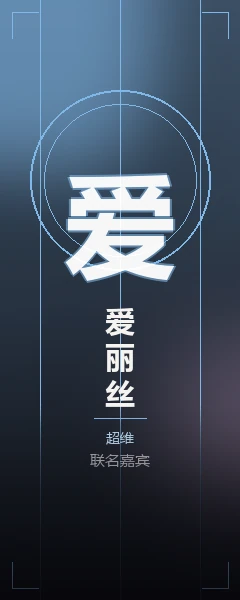
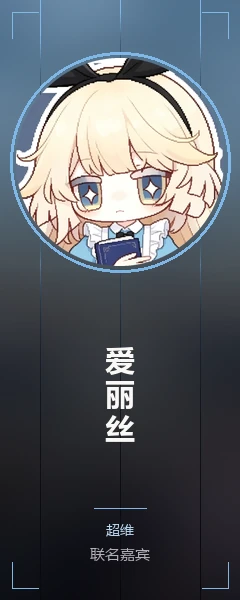
feat(idle): 联名嘉宾改用主播本人的 B 站头像
- 抓取 9 位主播的 B 站头像存进 idle/tools/faces/，来源（UID/昵称/CDN 地址/抓取时间）记在 source.json
- build_creators.py 增加 --face-dir：头像 120×120 直出；立绘 240×600 做成名片（模糊头像铺底 + 圆形头像带界域色环 + 竖排名字 + 界域/联名嘉宾）
- 无 --face-dir 时仍退化成原来的姓名符印占位卡，--portrait/--card 可单张替换
- 立绘竖排名字去掉下划线（魔龙_D → 魔龙D）
- README / DESIGN 同步素材说明与下架渠道

diff --git a/idle/tools/build_creators.py b/idle/tools/build_creators.py
@@ -1,8 +1,11 @@
 # 彩蛋角色（联名主播）的头像与立绘。
 #
-# 游戏里没有现成的真人素材，也不能随便抓别人的头像，所以默认用「姓名符印」画一张风格统一的卡图：
-# 界域色光晕 + 一枚篆刻感的首字 + 底部身份条。有授权素材时直接传源图覆盖：
+# 三种来源，优先级从高到低：
+#   1. --face-dir DIR    用主播本人的 B 站头像（DIR 下放 <slug>.jpg/png/webp）→ 头像直出、立绘做「嘉宾名片」
+#   2. --portrait / --card  指定单张授权图
+#   3. 都没有 → 画一张「姓名符印」占位卡（界域色光晕 + 首字篆刻 + 底部身份条）
 #
+#   python tools/build_creators.py --face-dir=.faces
 #   python tools/build_creators.py --portrait samo=D:/pic/samo.png --card samo=D:/pic/samo-card.png
 #   python tools/build_creators.py --only samo          # 只重做一个人
 #
@@ -16,7 +19,7 @@ import sys
 import math
 
 try:
-    from PIL import Image, ImageDraw, ImageFont, ImageFilter
+    from PIL import Image, ImageDraw, ImageFont, ImageFilter, ImageEnhance
 except ImportError:
     sys.exit('需要 Pillow：pip install pillow')
 
@@ -96,6 +99,101 @@ def corner_marks(d, size, color, inset=8, length=18):
     for (x, y, sx, sy) in ((inset, inset, 1, 1), (w - inset, inset, -1, 1), (inset, h - inset, 1, -1), (w - inset, h - inset, -1, -1)):
         d.line([(x, y), (x + length * sx, y)], fill=color + (110,), width=1)
         d.line([(x, y), (x, y + length * sy)], fill=color + (110,), width=1)
+
+
+def cover(im, size):
+    """等比放大到铺满 size，居中裁掉多余部分"""
+    W, H = size
+    sc = max(W / im.width, H / im.height)
+    im = im.resize((max(1, round(im.width * sc)), max(1, round(im.height * sc))), Image.LANCZOS)
+    return im.crop(((im.width - W) // 2, (im.height - H) // 2, (im.width - W) // 2 + W, (im.height - H) // 2 + H))
+
+
+def open_face(path):
+    """主播头像：居中裁成正方形（B 站头像本身就是方的，这里只兜底）"""
+    im = Image.open(path).convert('RGB')
+    s = min(im.size)
+    x, y = (im.width - s) // 2, (im.height - s) // 2
+    return im.crop((x, y, x + s, y + s))
+
+
+def circle_mask(D, ss=4):
+    m = Image.new('L', (D * ss, D * ss), 0)
+    ImageDraw.Draw(m).ellipse((0, 0, D * ss - 1, D * ss - 1), fill=255)
+    return m.resize((D, D), Image.LANCZOS)
+
+
+def save_webp(im, folder, slug, quality):
+    os.makedirs(folder, exist_ok=True)
+    p = os.path.join(folder, f'{slug}.webp')
+    im.convert('RGB').save(p, 'WEBP', quality=quality, method=6)
+    return p
+
+
+def make_face_portrait(slug, face):
+    """真实头像 → 120×120，直接给列表 / 战斗用（CSS 那边自己裁圆角）"""
+    out = open_face(face).resize((120, 120), Image.LANCZOS)
+    return save_webp(out, AWK_DIR, slug, 92)
+
+
+def make_face_card(slug, name, color, color2, realm, face):
+    """真实头像 + 名片式立绘：模糊铺底 → 圆形头像 → 竖排名字 → 界域 / 联名"""
+    W, H = 240, 600
+    ss = open_face(face)
+
+    # 背景：头像铺满后模糊，压暗并染上界域色，避免和清晰头像抢注意力
+    bg = cover(ss, (W, H)).filter(ImageFilter.GaussianBlur(24))
+    bg = ImageEnhance.Brightness(bg).enhance(0.55)
+    tint = vertical_gradient((W, H), lerp(color, (10, 10, 14), 0.55), (9, 9, 13), gamma=1.1)
+    im = Image.blend(bg, tint, 0.60).convert('RGBA')
+
+    im.alpha_composite(glow((W, H), lambda d: d.ellipse((-40, -80, 280, 280), fill=color + (120,)), color, 54, 0.9))
+    im.alpha_composite(glow((W, H), lambda d: d.ellipse((110, 420, 300, 620), fill=color2 + (70,)), color2, 60))
+    d = ImageDraw.Draw(im)
+    for i in range(3):
+        x = 40 + i * 80
+        d.line([(x, 0), (x, H)], fill=color + (14,), width=1)
+
+    # 清晰头像
+    D = 208
+    ax, ay = (W - D) // 2, 58
+    ring = (ax - 6, ay - 6, ax + D + 6, ay + D + 6)
+    im.alpha_composite(glow((W, H), lambda dd: dd.ellipse(ring, outline=color + (190,), width=4), color, 16, 1.0))
+    d = ImageDraw.Draw(im)
+    d.ellipse(ring, outline=color + (225,), width=3)
+    im.paste(ss.resize((D, D), Image.LANCZOS), (ax, ay), circle_mask(D))
+
+    # 下半部压暗：先铺暗底，再写亮字，名字才不会被背景吃掉
+    shade = Image.new('RGBA', (W, H), (0, 0, 0, 0))
+    sd = ImageDraw.Draw(shade)
+    y0 = 264
+    for i in range(H - y0):
+        a = int(196 * (i / (H - y0)) ** 0.85)
+        sd.line([(0, y0 + i), (W, y0 + i)], fill=(6, 6, 10, a))
+    im.alpha_composite(shade)
+
+    d = ImageDraw.Draw(im)
+    size = 30 if len(name) <= 5 else 27
+    step = size + 4
+    f = font(FONT_BOLD, size)
+    chars = name.replace('_', '')
+    total = len(chars) * step
+    dy = 292 + max(0, (196 - total) / 2)
+    for c in chars:
+        w = d.textlength(c, font=f)
+        d.text(((W - w) / 2, dy), c, font=f, fill=(250, 248, 246, 245))
+        dy += step
+
+    d.line([(W / 2 - 26, 508), (W / 2 + 26, 508)], fill=color + (180,), width=1)
+    frealm = font(FONT_REG, 14)
+    fsmall = font(FONT_REG, 15)
+    tw = d.textlength(realm, font=frealm)
+    d.text(((W - tw) / 2, 520), realm, font=frealm, fill=lerp(color, (255, 255, 255), 0.45) + (225,))
+    t2 = '联名嘉宾'
+    t2w = d.textlength(t2, font=fsmall)
+    d.text(((W - t2w) / 2, 544), t2, font=fsmall, fill=(178, 176, 182, 220))
+    corner_marks(d, (W, H), color, inset=12, length=26)
+    return save_webp(im, CARD_DIR, slug, 90)
 
 
 def make_portrait(slug, name, ch, color, color2, src=None):
@@ -180,13 +278,26 @@ def make_card(slug, name, ch, color, color2, realm, src=None):
     return p
 
 
+def find_face(folder, slug):
+    if not folder:
+        return None
+    for ext in ('.jpg', '.jpeg', '.png', '.webp'):
+        p = os.path.join(folder, slug + ext)
+        if os.path.isfile(p):
+            return p
+    return None
+
+
 def main(argv):
     only = None
+    face_dir = None
     portrait_src = {}
     card_src = {}
     for arg in argv:
         if arg.startswith('--only='):
             only = arg.split('=', 1)[1]
+        elif arg.startswith('--face-dir='):
+            face_dir = arg.split('=', 1)[1]
         elif arg.startswith('--portrait='):
             k, v = arg[len('--portrait='):].split('=', 1)
             portrait_src[k] = v
@@ -197,8 +308,13 @@ def main(argv):
     for slug, name, ch, color, color2, realm in CAST:
         if only and slug != only:
             continue
-        a = make_portrait(slug, name, ch, color, color2, portrait_src.get(slug))
-        b = make_card(slug, name, ch, color, color2, realm, card_src.get(slug))
+        face = find_face(face_dir, slug)
+        if face and not card_src.get(slug):
+            a = make_face_portrait(slug, face)
+            b = make_face_card(slug, name, color, color2, realm, face)
+        else:
+            a = make_portrait(slug, name, ch, color, color2, portrait_src.get(slug))
+            b = make_card(slug, name, ch, color, color2, realm, card_src.get(slug))
         print(f'{slug:9s} {a} {os.path.getsize(a):>6d}B   {b} {os.path.getsize(b):>7d}B')
         n += 1
     print(f'完成 {n} 位')

diff --git a/idle/README.md b/idle/README.md
@@ -46,7 +46,7 @@
 - **唤醒体排序（M14）**：唤醒体页可按稀有度 / 战力 / 等级 / 叠位数 / 获取顺序 / 界域排序，再点一次当前排序键就反向（↓ / ↑ 写在按钮上）。未获得的一律排在后面，配合「仅已拥有」可以只看手里有的。卡面直接给出等级、叠位、类型与单人战力。
 - **融灾禁区（M15）**：挑战页新增的终盘玩法，**一层要同时派五个队伍**——一队~五队在队伍页提前编好（只有 5 套，每套 4 人），分别对上这一层的第 1~5 组敌人，第 5 组是精英 / Boss。**5 场胜 4 场即通过**（留一队的余量，免得怪物组合的运气压过队伍强度），每层满状态、不继承血量，一次挑战最多连爬 10 层。塔高 **100 层**，每 10 层一个里程碑、每 25 层有校猫奖励战（钥令 + 券 + 银芯），打穿 100 层额外给 40 券与 600 银芯。**每两周换一期**：敌人按新种子重排、层数从头爬、每层奖励重发，历史最高层永久保留；每期新开时界面与回归里都能验证（周期按 UTC 天数整除 14 天，第 1 期从 2026-01-05 起算）。挑战过程同样走战斗回放，只回放「决定这一层」的那一场（失败的那队，或全胜时的第五队）。
 - **挂机层默认取有收益的最高层（M16）**：收益 = 胜率 × 单场收益，胜率 0 的关就是零收益。可 `state.stage` 一直跟着「正在打的那一关」走，攻坚时挂机也跟着去——一旦这一关（或 `maxStage` 自己）打不过（侥幸首通、换过队伍、叠位被清、造物被卸），在线空转，**离线结算也一直是 0**。现在统一由 `farmableStage` 判定：从想打的关往下扫（每关试 2 场、最多 60 关），**第一个打得过的层就是这个账号真正该挂的层**，结果按队伍 / 养成 / 装备的签名缓存。离线结算按这一层算，领完收益顺手把挂机层切过去；自动挂机在前线失手、或在已通关的关上连输 3 场，也会退到这一层。战斗页当前关胜率 0 时标黄并给一颗「退回第 N 关挂机」的按钮，离线弹窗会说明「已按有收益的最高层结算」。手动挂机不参与自动退层（关卡是玩家自己选的）。同一版把游戏名从《忘却之夜·挂机录》改成《挂机前夜》。
-- **联名嘉宾与「星辉直播间」（M17）**：把《忘却前夜》社区里 9 位主播——萨摩不耶、梦依流苏、爱丽丝、鼠王、魔龙_D、立誓0氪、夏茉琳、朝星、路过的耄耋——做成彩蛋唤醒体，**不进召唤池**，只从签到与活动拿：**累计签到 3 / 7 / 15 天**各送一位（跨月累计，老存档进游戏自动补发），其余 6 位在「更多 → 联动」的「星辉直播间」里用人气档位解锁。人气来自每日任务（在线战斗 20 场 +30 / 胜利 15 场 +30 / 首次通关 2 关 +40，UTC 日重置，**离线场次不算**）、推图里程碑（最高通关每 10 关 +10，最高 100 关）和签到（每次 +5），档位 60 / 140 / 240 / 360 / 520 / 700。技能一律按昵称意象手写（雪橇犬护盾、丝线织梦、兔子洞多段、鼠群瘟疫、龙息群伤、零氪回能、茉莉奶妈、星轨暴击、遛弯老人扛伤），数值压在史诗之下、初始四人之上，四界域 × 三类型都有人，凑得出同域加成。数据在 `src/core/creators.js`，活动在 `src/core/event.js`，头像立绘由 `tools/build_creators.py` 生成（支持 `--portrait/--card` 换成授权素材）。
+- **联名嘉宾与「星辉直播间」（M17）**：把《忘却前夜》社区里 9 位主播——萨摩不耶、梦依流苏、爱丽丝、鼠王、魔龙_D、立誓0氪、夏茉琳、朝星、路过的耄耋——做成彩蛋唤醒体，**不进召唤池**，只从签到与活动拿：**累计签到 3 / 7 / 15 天**各送一位（跨月累计，老存档进游戏自动补发），其余 6 位在「更多 → 联动」的「星辉直播间」里用人气档位解锁。人气来自每日任务（在线战斗 20 场 +30 / 胜利 15 场 +30 / 首次通关 2 关 +40，UTC 日重置，**离线场次不算**）、推图里程碑（最高通关每 10 关 +10，最高 100 关）和签到（每次 +5），档位 60 / 140 / 240 / 360 / 520 / 700。技能一律按昵称意象手写（雪橇犬护盾、丝线织梦、兔子洞多段、鼠群瘟疫、龙息群伤、零氪回能、茉莉奶妈、星轨暴击、遛弯老人扛伤），数值压在史诗之下、初始四人之上，四界域 × 三类型都有人，凑得出同域加成。数据在 `src/core/creators.js`，活动在 `src/core/event.js`，头像立绘由 `tools/build_creators.py --face-dir=tools/faces` 生成——用的是主播本人的 B 站公开头像（原图与来源记录都在 `tools/faces/`），立绘做成「圆形头像 + 竖排名字」的嘉宾名片；要换图直接覆盖 `tools/faces/<slug>.jpg` 或用 `--portrait/--card` 指路径。
 - **挑战**：无限塔（每日 3 次，生命继承）、融灾试炼（第 71/72 期的真实区域首领，C 到 SSS 六档威胁）、25 个成就、新手引导、伤害 / 治疗统计。
 
 ## 运行
